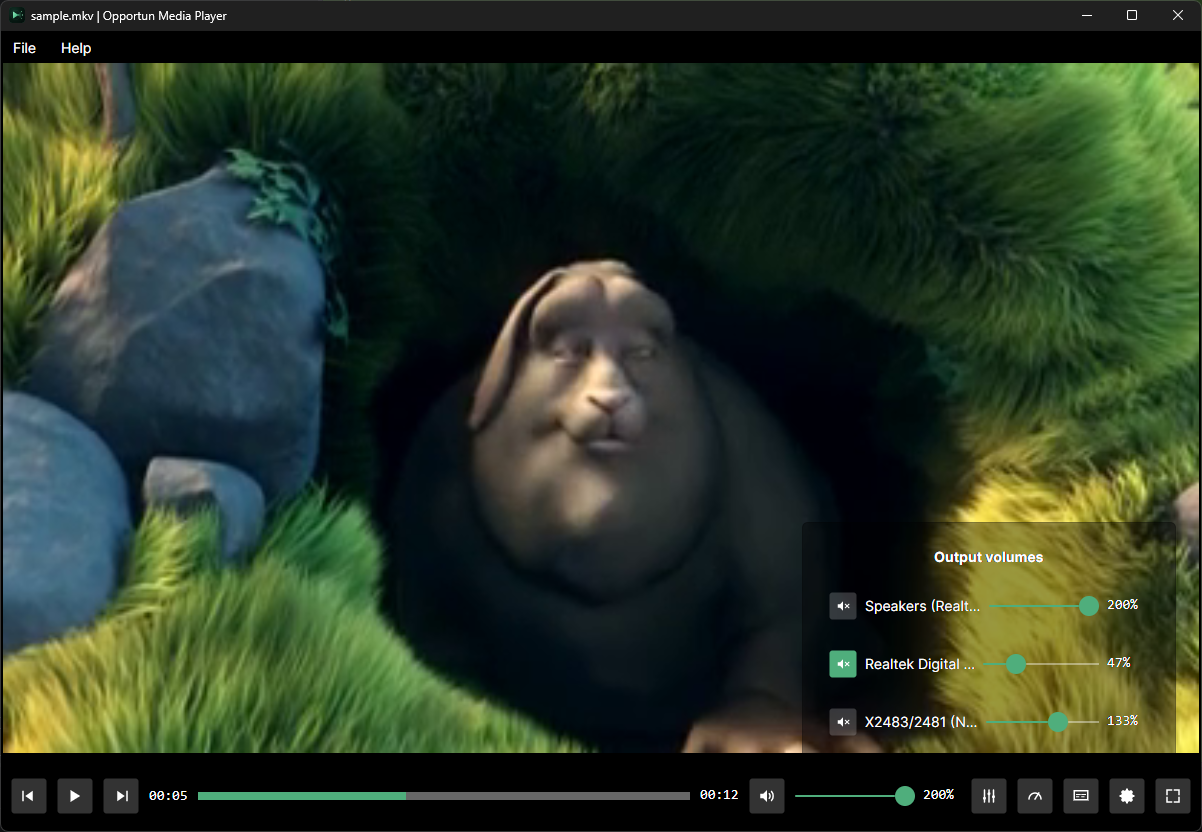
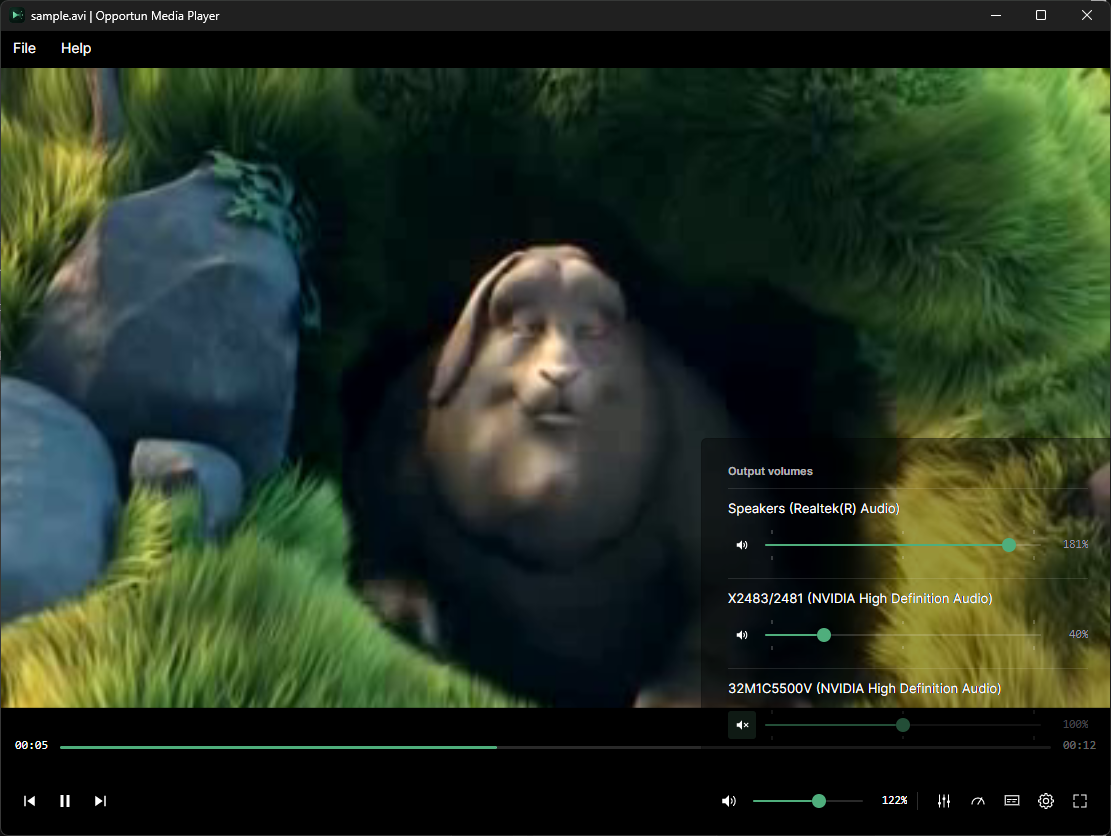
Added github page, updated screenshots (#9)
* Added github.io page

* Updated screenshots to match ui changes

* Updated ci tests to trigger only on code changes

diff --git a/docs/index.html b/docs/index.html
@@ -1,0 +1,290 @@
+<!DOCTYPE html>
+<html lang="en">
+<head>
+<meta charset="UTF-8">
+<meta name="viewport" content="width=device-width, initial-scale=1">
+<title>Opportun Media Player — route audio tracks to multiple outputs</title>
+<meta name="description" content="Opportun Media Player (OMP) routes different audio tracks from one file to different output devices at the same time — original audio to your speakers, a dub or commentary track to headphones, in sync. Free, source-available, cross-platform.">
+<link rel="canonical" href="https://opportunv.github.io/OpportunMediaPlayer/">
+
+<meta property="og:type" content="website">
+<meta property="og:title" content="Opportun Media Player">
+<meta property="og:description" content="Route different audio tracks from one file to different output devices — at the same time. Free, source-available, cross-platform.">
+<meta property="og:url" content="https://opportunv.github.io/OpportunMediaPlayer/">
+<meta property="og:image" content="https://opportunv.github.io/OpportunMediaPlayer/assets/icon-512.png">
+<meta name="twitter:card" content="summary">
+<meta name="twitter:title" content="Opportun Media Player">
+<meta name="twitter:description" content="Route different audio tracks from one file to different output devices — at the same time.">
+<meta name="twitter:image" content="https://opportunv.github.io/OpportunMediaPlayer/assets/icon-512.png">
+
+<link rel="icon" type="image/png" sizes="32x32" href="assets/favicon-32.png">
+<link rel="apple-touch-icon" href="assets/icon-192.png">
+
+<script type="application/ld+json">
+{
+  "@context": "https://schema.org",
+  "@type": "SoftwareApplication",
+  "name": "Opportun Media Player",
+  "alternateName": "OMP",
+  "description": "A local media player that routes different audio tracks from the same file to different audio output devices simultaneously, with multi-zone subtitles, per-output volume, and playback speed control.",
+  "url": "https://opportunv.github.io/OpportunMediaPlayer/",
+  "image": "https://opportunv.github.io/OpportunMediaPlayer/assets/icon-512.png",
+  "applicationCategory": "MultimediaApplication",
+  "operatingSystem": "Windows, Linux, macOS",
+  "downloadUrl": "https://github.com/OpportunV/OpportunMediaPlayer/releases",
+  "license": "https://github.com/OpportunV/OpportunMediaPlayer/blob/main/LICENSE",
+  "offers": {
+    "@type": "Offer",
+    "price": "0",
+    "priceCurrency": "USD"
+  }
+}
+</script>
+
+<style>
+  :root {
+    --bg: #FAFAFA;
+    --surface: #FFFFFF;
+    --fg: #1A1A1A;
+    --hint: #71717A;
+    --card-bg: #E2F4EA;
+    --accent: #4FAE7C;
+    --accent-text: #2A6A4A;
+    --rule: rgba(0, 0, 0, 0.14);
+  }
+
+  @media (prefers-color-scheme: dark) {
+    :root {
+      --bg: #101512;
+      --surface: #141A17;
+      --fg: #FFFFFF;
+      --hint: #9A9AA2;
+      --card-bg: #0F1A14;
+      --accent: #4FAE7C;
+      --accent-text: #8FDBAD;
+      --rule: rgba(255, 255, 255, 0.14);
+    }
+  }
+
+  * { box-sizing: border-box; }
+
+  body {
+    margin: 0;
+    background: var(--bg);
+    color: var(--fg);
+    font-family: -apple-system, "Segoe UI", Roboto, Helvetica, Arial, sans-serif;
+    line-height: 1.5;
+  }
+
+  main {
+    max-width: 760px;
+    margin: 0 auto;
+    padding: 64px 24px 96px;
+  }
+
+  header.hero {
+    display: flex;
+    flex-direction: column;
+    align-items: center;
+    text-align: center;
+    gap: 16px;
+    margin-bottom: 56px;
+  }
+
+  header.hero img.icon {
+    width: 96px;
+    height: 96px;
+    border-radius: 22px;
+  }
+
+  h1 {
+    font-size: 28px;
+    margin: 0;
+  }
+
+  p.tagline {
+    font-size: 18px;
+    color: var(--hint);
+    max-width: 46ch;
+    margin: 0;
+  }
+
+  p.lede {
+    font-size: 15px;
+    max-width: 56ch;
+    margin: 8px 0 0;
+  }
+
+  .cta-row {
+    display: flex;
+    gap: 12px;
+    margin-top: 8px;
+    flex-wrap: wrap;
+    justify-content: center;
+  }
+
+  .btn {
+    display: inline-block;
+    padding: 10px 20px;
+    border-radius: 8px;
+    text-decoration: none;
+    font-size: 14px;
+    font-weight: 600;
+  }
+
+  .btn-primary {
+    background: var(--accent);
+    color: #08150F;
+  }
+
+  .btn-outline {
+    background: transparent;
+    color: var(--accent-text);
+    border: 1px solid var(--accent);
+  }
+
+  section {
+    margin-bottom: 48px;
+  }
+
+  h2 {
+    font-size: 13px;
+    text-transform: uppercase;
+    letter-spacing: 0.06em;
+    color: var(--hint);
+    border-bottom: 1px solid var(--rule);
+    padding-bottom: 8px;
+    margin-bottom: 20px;
+  }
+
+  ul.features {
+    list-style: none;
+    margin: 0;
+    padding: 0;
+    display: grid;
+    gap: 12px;
+  }
+
+  ul.features li {
+    padding-left: 22px;
+    position: relative;
+    font-size: 15px;
+  }
+
+  ul.features li::before {
+    content: "";
+    position: absolute;
+    left: 0;
+    top: 8px;
+    width: 8px;
+    height: 8px;
+    border-radius: 50%;
+    background: var(--accent);
+  }
+
+  .shots {
+    display: grid;
+    grid-template-columns: 1fr 1fr;
+    gap: 12px;
+  }
+
+  .shots figure {
+    margin: 0;
+    background: var(--card-bg);
+    border-radius: 10px;
+    overflow: hidden;
+  }
+
+  .shots img {
+    display: block;
+    width: 100%;
+    height: auto;
+  }
+
+  .shots figcaption {
+    font-size: 12px;
+    color: var(--hint);
+    padding: 8px 10px 10px;
+  }
+
+  @media (max-width: 560px) {
+    .shots { grid-template-columns: 1fr; }
+  }
+
+  footer {
+    border-top: 1px solid var(--rule);
+    padding-top: 20px;
+    font-size: 13px;
+    color: var(--hint);
+    text-align: center;
+  }
+
+  footer a {
+    color: var(--accent-text);
+  }
+</style>
+<meta name="google-site-verification" content="X90t0Xa64XM0rxCZeGw_ZPx8pD5q1B3dlfTPGZFG8y8" />
+</head>
+<body>
+<main>
+
+  <header class="hero">
+    <img class="icon" src="assets/icon-192.png" alt="Opportun Media Player icon" width="96" height="96">
+    <h1>Opportun Media Player</h1>
+    <p class="tagline">Route audio tracks from one file to multiple outputs — at the same time.</p>
+    <p class="lede">
+      OMP is a free, source-available media player built around one specific problem:
+      playing different audio tracks from the same file through different output devices
+      simultaneously — the original audio on your speakers, a dub or commentary track on
+      someone's headphones, staying in sync.
+    </p>
+    <div class="cta-row">
+      <a class="btn btn-primary" href="https://github.com/OpportunV/OpportunMediaPlayer/releases">Download</a>
+      <a class="btn btn-outline" href="https://github.com/OpportunV/OpportunMediaPlayer">View source</a>
+    </div>
+  </header>
+
+  <section>
+    <h2>Features</h2>
+    <ul class="features">
+      <li>Route any audio track to any output device — the same track can fan out to
+        multiple devices at once, each with its own volume.</li>
+      <li>Position subtitles in on-screen zones you define, each fed by its own track.</li>
+      <li>Adjust playback speed without changing pitch.</li>
+      <li>Light, dark, and system themes.</li>
+      <li>Windows, Linux, and macOS.</li>
+    </ul>
+  </section>
+
+  <section>
+    <h2>Screenshots</h2>
+    <div class="shots">
+      <figure>
+        <img src="https://raw.githubusercontent.com/OpportunV/OpportunMediaPlayer/main/.github/images/main_window.png" alt="Opportun Media Player main window, dark theme" loading="lazy">
+        <figcaption>Main window — dark theme</figcaption>
+      </figure>
+      <figure>
+        <img src="https://raw.githubusercontent.com/OpportunV/OpportunMediaPlayer/main/.github/images/main_window_light_theme.png" alt="Opportun Media Player main window, light theme" loading="lazy">
+        <figcaption>Main window — light theme</figcaption>
+      </figure>
+      <figure>
+        <img src="https://raw.githubusercontent.com/OpportunV/OpportunMediaPlayer/main/.github/images/options_audio_settings.png" alt="Audio routing settings, sending tracks to multiple output devices" loading="lazy">
+        <figcaption>Routing tracks to multiple output devices</figcaption>
+      </figure>
+      <figure>
+        <img src="https://raw.githubusercontent.com/OpportunV/OpportunMediaPlayer/main/.github/images/subtitle_zone_editor.png" alt="Subtitle zone editor" loading="lazy">
+        <figcaption>Subtitle zone editor</figcaption>
+      </figure>
+    </div>
+  </section>
+
+  <footer>
+    <a href="https://github.com/OpportunV/OpportunMediaPlayer/blob/main/LICENSE">PolyForm Noncommercial 1.0.0</a>
+    — free for any noncommercial use, source-available (not OSI open source).
+    <br>
+    <a href="https://github.com/OpportunV/OpportunMediaPlayer/issues">Issues &amp; feedback</a>
+  </footer>
+
+</main>
+</body>
+</html>
